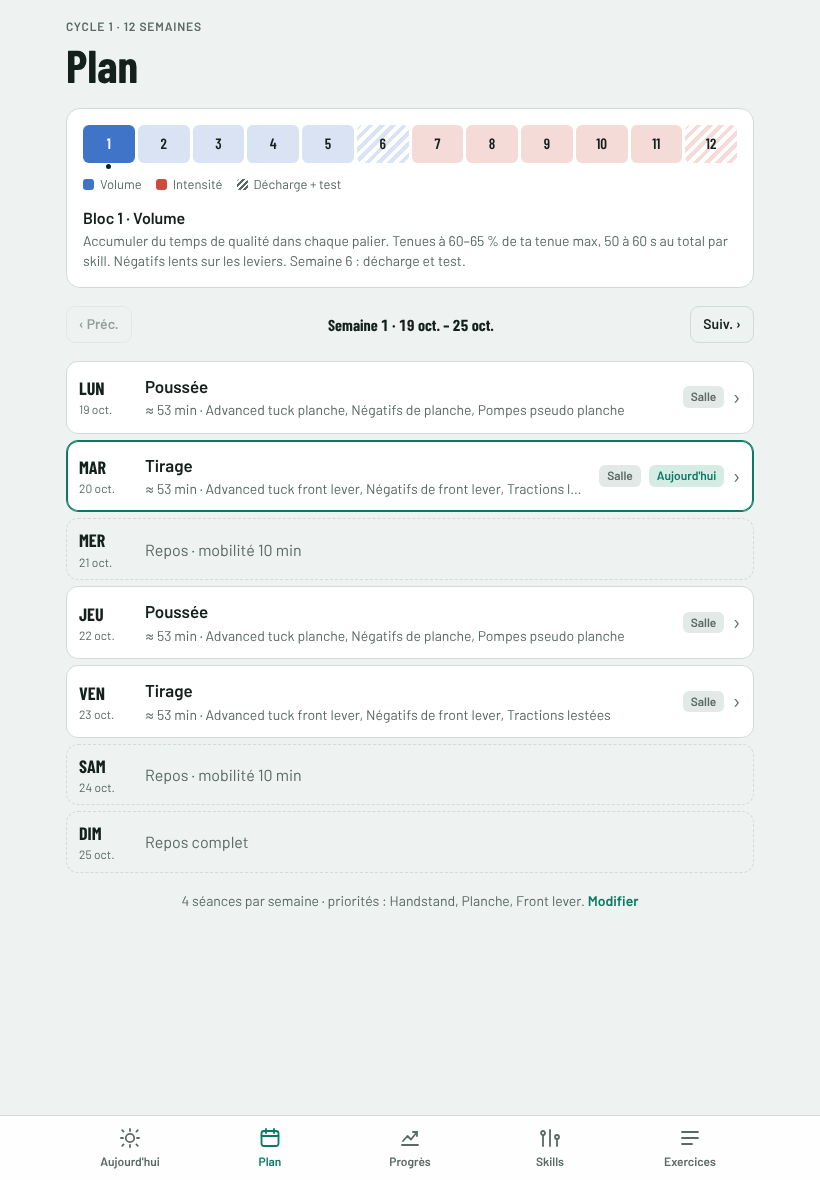
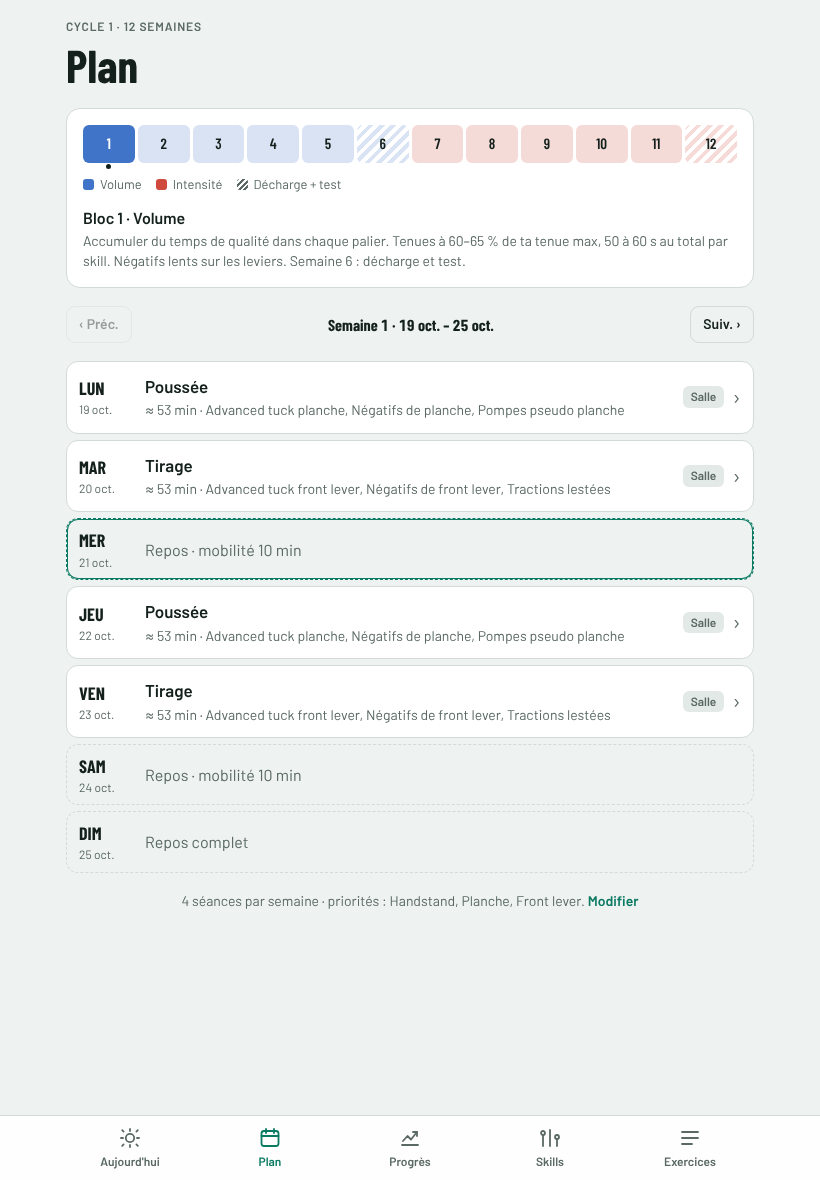
Calisthénie: 3-month intensive blocks for each major skill
Claude-Session: https://claude.ai/code/session_01BzPbhTdoN3B81eFCNwf2Zg

Changed region(s): [[0.1829, 0.3661, 0.9146, 0.4576], [0.0915, 0.4271, 0.122, 0.4576]]

diff --git a/calisthenie/index.html b/calisthenie/index.html
@@ -617,6 +617,30 @@ button:disabled { opacity: .4; cursor: default; }
 .egg-svg .s-tw { animation: c-twinkle 1.5s ease-in-out infinite; }
 @media (prefers-reduced-motion: reduce) { .k-sh *, .k-sh { animation: none !important; } }
 
+/* Blocs intensifs */
+.spec-card, .spec-entry { width: 100%; text-align: left; color: var(--ink); font: inherit; cursor: pointer; border-color: var(--accent); }
+.spec-entry { gap: 4px; }
+.spec-entry b { font-size: 18px; }
+.spec-goal { font-size: 18px; line-height: 1.3; }
+.spec-bar i { height: 8px; }
+.spec-bar i.test { box-shadow: inset 0 -2px 0 var(--warn); }
+.spec-goals { list-style: none; padding: 0; margin: 0; display: grid; gap: 10px; }
+.spec-goals li { display: flex; gap: 10px; align-items: flex-start; }
+.spec-goals li > div { display: grid; gap: 2px; }
+.sg-mark { flex: none; width: 26px; height: 26px; border-radius: 50%; display: grid; place-items: center; font-weight: 700; font-size: 14px; background: var(--sunk); color: var(--muted); }
+.spec-goals li.now .sg-mark { background: var(--accent-soft); color: var(--accent); box-shadow: 0 0 0 2px var(--accent); }
+.spec-goals li.ok .sg-mark { background: var(--accent); color: #fff; }
+.spec-goals li.ok b { text-decoration: none; }
+.spec-grid { display: grid; grid-template-columns: repeat(auto-fill, minmax(300px, 1fr)); gap: 10px; }
+.spec-pick { align-content: start; }
+.spec-pick.on { border-color: var(--accent); }
+.spec-pick p { margin: 0; }
+.spec-pick .btn, .spec-pick .tag { justify-self: start; }
+.sp-head { display: flex; gap: 12px; align-items: center; }
+.sp-head > div { display: grid; gap: 2px; min-width: 0; }
+.sp-head b { font-size: 18px; }
+@media (max-width: 640px) { .spec-grid { grid-template-columns: 1fr; } }
+
 /* Craie, avatar, boutique */
 .chalk { display: inline-flex; align-items: center; gap: 4px; font-weight: 700; }
 .chalk-ic svg { width: 16px; height: 16px; display: block; fill: color-mix(in srgb, var(--surface) 70%, var(--accent)); stroke: var(--accent); stroke-width: 1.6; stroke-linejoin: round; }
@@ -4705,6 +4729,257 @@ eggSVG = function (rar) {
     '<g class="egg-shell">' + cel(u, shell, base, sh, { dx: -3, dy: -7, x: pat, hl: [34, 32, 7, 12, 20], hlo: .6, sw: 3.4 }) + '</g>' +
     '<path class="egg-crack" d="M16 66 L28 58 L34 68 L46 56 L54 70 L64 58 L72 68 L84 62" fill="none" stroke="' + OL + '" stroke-width="3" stroke-linejoin="round"/>' +
     '</svg>';
+};
+render();
+
+
+/* =====================================================================
+   V10 : blocs intensifs de 3 mois, un grand skill en priorité absolue
+   3 mois = 3 × (3 semaines de charge + 1 semaine de test et récupération).
+   Séances lourdes et techniques alternées : jamais deux séances lourdes d'affilée.
+   ===================================================================== */
+settings.specHist = settings.specHist || [];
+
+// Exercices d'appoint de chaque bloc : [exercice, dose, unité, consigne]
+const SPEC = {
+  planche: { name: "Planche",
+    real: "La full planche demande en général 1 à 2 ans depuis l'advanced tuck : le bloc vise les 2 paliers suivants, sans abîmer coudes et poignets.",
+    tips: ["Bras verrouillés sur toutes les tenues : un coude plié cache ta vraie progression.", "Omoplates écartées et bassin rentré, du lean jusqu'à la full.", "Si un biceps ou un coude tire, passe la séance en technique."],
+    heavy: lv => [lv <= 4 ? ["plNeg", "3 × 3", "négatifs 4 s · repos 3 min", "Pars du palier au-dessus du tien et descends lentement"] : null,
+      [lv <= 1 ? "pppu" : lv <= 4 ? "atPU" : "plPU", "EMOM 6 min", "1+ rép. / min", "Méthode Heria : ta pompe planche la plus dure, 1 répétition ou plus au début de chaque minute"],
+      ["dipsW", "4 × 6", "lestés · repos 2 min", "Force de poussée lourde : transfert direct sur la planche"]],
+    tech: () => [["lean", "3 × 20 s", "repos 60 s", "Penche un peu plus loin chaque semaine, bras verrouillés"], ["pppu", "3 × 8", "repos 90 s", "Garde le lean jusqu'en bas"]] },
+  hs: { name: "Handstand", every: true,
+    real: "L'équilibre progresse surtout avec la fréquence : un peu à chaque séance vaut mieux qu'une grosse séance par semaine.",
+    tips: ["Côtes rentrées, épaules complètement ouvertes : la ligne avant la durée.", "Corrige avec les doigts, pas en marchant avec les mains.", "Filme-toi de profil une fois par semaine."],
+    heavy: lv => [["kickup", "8 min", "pratique", "Entrées en équilibre : arrête-toi propre en haut, sans toucher le mur"],
+      lv >= 3 ? ["shapes", "3 × 20 s", "repos 60 s", "Change la forme des jambes sans perdre l'équilibre"] : ["heelPull", "3 × 10 s", "repos 60 s", "Décolle les talons du mur, trouve le point d'équilibre"],
+      ["shoulderTap", "3 × 10", "repos 60 s", "Transfert de poids d'une main à l'autre"]],
+    tech: () => [["kickup", "6 min", "pratique", "Entrées détendues, qualité avant tout"], ["wallChest", "2 × 45 s", "repos 60 s", "Ligne parfaite : côtes rentrées, épaules ouvertes"]] },
+  hspu: { name: "HSPU",
+    real: "Les HSPU progressent vite avec de la force de poussée : 2 à 3 paliers en 3 mois sont réalistes. Les HSPU libres demandent en plus un handstand solide.",
+    tips: ["Coudes à 45°, la tête passe devant les mains en bas.", "Amplitude complète avant d'ajouter du déficit.", "Garde un peu de handstand libre chaque semaine."],
+    heavy: lv => [lv <= 4 ? ["hspuNeg", "3 × 4", "négatifs 5 s · repos 2 min", "Descente lente jusqu'à la tête, coudes à 45°"] : null,
+      ["dipsW", "4 × 6", "lestés · repos 2 min", "Force de poussée lourde"], ["pikeDef", "3 × 8", "repos 90 s", "Amplitude complète, hanches hautes"]],
+    tech: () => [["kickup", "6 min", "pratique", "Équilibre au mur ou en libre"], ["pikeBox", "3 × 8", "repos 90 s", "Rapide en montée, contrôlé en descente"]] },
+  fl: { name: "Front lever",
+    real: "Le front lever avance d'un palier tous les 1 à 3 mois chez un pratiquant fort en traction : 2 paliers en 3 mois est un bon objectif.",
+    tips: ["Bras tendus, omoplates basses et serrées.", "Hanches à hauteur des épaules, même en tuck.", "Le lest lourd en traction aide beaucoup : garde-le."],
+    heavy: () => [["flNeg", "3 × 3", "négatifs 4 s · repos 3 min", "Descends lentement depuis la barre jusqu'à l'horizontale, corps gainé"],
+      ["pullUpW", "4 × 5", "lestés · repos 2 min", "Tirage lourd : la base du front lever"], ["legRaise", "3 × 8", "repos 60 s", "Jambes tendues, sans balancer"]],
+    tech: () => [["scapPull", "3 × 8", "repos 60 s", "Omoplates basses et serrées"], ["row", "3 × 10", "tempo 3-1-1 · repos 90 s", "Corps gainé, bras serrés"]] },
+  bl: { name: "Back lever",
+    real: "Le back lever est souvent le levier le plus rapide, mais le plus exigeant pour les biceps : la progression reste volontairement prudente.",
+    tips: ["Échauffe longuement les biceps et les épaules avant chaque tenue.", "Entre et sors du levier lentement, jamais en lâchant.", "Arrête dès qu'une douleur apparaît à l'avant du coude."],
+    heavy: () => [["pullUp", "4 × 6", "tempo 3-1-1 · repos 2 min", "Tractions lentes et contrôlées"], ["dips", "3 × 10", "repos 90 s", "Épaules basses, poitrine ouverte"]],
+    tech: () => [["row", "3 × 12", "repos 90 s", "Corps gainé"], ["plankPike", "3 × 10", "repos 60 s", "Gainage pour garder le corps aligné"]] },
+  mu: { name: "Muscle-up",
+    real: "Avec de bonnes tractions, le muscle-up strict vient souvent en 1 à 3 mois : la technique de transition compte autant que la force.",
+    tips: ["Tire vers les hanches, pas vers le menton.", "Prise un peu plus serrée, poignets par-dessus la barre.", "Transition des deux bras en même temps."],
+    heavy: () => [["explosive", "5 × 3", "repos 2 min", "Tire le plus haut possible, jusqu'aux hanches"], ["muNeg", "3 × 3", "négatifs 5 s · repos 2 min", "Descends lentement à travers la transition"], ["dips", "3 × 10", "repos 90 s", "Le haut du muscle-up"]],
+    tech: () => [["c2b", "3 × 4", "repos 2 min", "Poitrine à la barre, sans élan"], ["pullUp", "2 × 6", "tempo 3-1-1 · repos 90 s", "Contrôle total"]] },
+  pull: { name: "Traction à un bras",
+    real: "La traction à un bras demande en général 6 mois à 2 ans : ce bloc construit la base (lest lourd, négatifs à un bras) et rapproche des premiers paliers.",
+    tips: ["Le lest lourd est le meilleur indicateur : vise des tractions à +50 % de ton poids.", "Négatifs à un bras : le plus lent possible, l'autre main ne touche pas.", "Coudes sensibles : on réduit, on n'insiste pas."],
+    heavy: lv => [["pullUpW", "5 × 3", "lestés · repos 3 min", "Lest lourd : vise 50 % de ton poids et plus"], lv >= 5 ? ["oap", "3 × 2", "négatifs 5 s · par côté · repos 3 min", "Descends le plus lentement possible sur un bras"] : ["explosive", "4 × 3", "repos 2 min", "Puissance de tirage"]],
+    tech: () => [["pullUp", "3 × 8", "tempo 3-1-1 · repos 90 s", "Contrôle total"], ["scapPull", "3 × 8", "repos 60 s", "Omoplates actives"]] },
+  core: { name: "V-sit",
+    real: "Le V-sit dépend autant de la souplesse en compression que de la force : le bloc travaille les deux à chaque séance.",
+    tips: ["Épaules basses, bras verrouillés, pousse le sol loin de toi.", "La compression vient des abdos et des fléchisseurs de hanche : tire les jambes vers toi.", "Étire l'arrière des jambes tous les jours."],
+    heavy: () => [["legRaise", "4 × 8", "repos 60 s", "Jambes tendues, montée lente"], ["plankPike", "3 × 10", "repos 60 s", "Compression active"]],
+    tech: () => [["pikeFold", "2 min", "", "Étirement actif en pike : la compression vient de la souplesse"], ["lTuck", "3 × 15 s", "repos 60 s", "Genoux le plus haut possible"]] }
+};
+const SPEC_IDS = Object.keys(SPEC);
+
+/* ---------- Calendrier du bloc ---------- */
+const specWeekOf = date => { const sp = settings.spec; if (!sp) return 0; return Math.floor((mondayOf(date) - new Date(sp.start + "T12:00:00")) / 6048e5) + 1; };
+const specWeekNow = () => specWeekOf(new Date());
+function specHeavy(id, d) {
+  if (SPEC[id].every) return true;
+  const days = Object.keys(cuSlots()).map(Number).sort((a, b) => a - b), H = {};
+  let last = -9; days.forEach(x => { if (x - last > 1) { H[x] = true; last = x; } });
+  return !!H[d];
+}
+function specAt(abs, d) {
+  const sp = settings.spec; if (!sp || !SPEC[sp.id]) return null;
+  const sw = specWeekOf(dateOf(abs, d));
+  if (sw < 1 || sw > 12) return null;
+  return { id: sp.id, sw, m: Math.ceil(sw / 4), wm: (sw - 1) % 4, heavy: specHeavy(sp.id, d) };
+}
+function specGoals(sp) {
+  const t = TREE[sp.id], N = t.steps.length, lv = levels[sp.id];
+  return [0, 1, 2].map(k => {
+    const i = sp.lv0 + k;
+    if (i >= N) return { k, label: "Entretenir et allonger : " + t.steps[N - 1].t, std: "", done: lv >= N };
+    const st = t.steps[i], touch = k === 2;
+    return { k, i, label: (touch ? (st.k === "h" ? "Premières tenues : " : "Premières répétitions : ") : "Valider : ") + st.t, std: touch ? "" : stdText(st),
+      done: touch ? lv > i || (lv >= i && bestOf(sp.id + ":" + i) > 0) : lv > i };
+  });
+}
+
+/* ---------- Contenu des séances ---------- */
+function specItems(sp) {
+  const id = sp.id, t = TREE[id], N = t.steps.length, lv = levels[id], si = Math.min(lv, N - 1), st = t.steps[si], nx = lv + 1 < N ? t.steps[lv + 1] : null;
+  const fin = lv >= N, test = sp.wm === 3, heavy = sp.heavy, hold = st.k === "h", tag = "Bloc intensif · " + t.name;
+  const side = st.side ? " par côté" : "", kg = st.wt ? " +" + Math.round(settings.bw * st.wt / 100) + " kg" : "", lk = id + ":" + si;
+  const main = { ex: st.ex, tree: id, lk, name: EX[st.ex].name + (st.assisted ? " assisté" : ""), title: t.name + " · " + st.t, eyebrow: tag + " · palier " + (si + 1) + "/" + N, keep: true, spec: true };
+  if (test && heavy && !fin) Object.assign(main, { dose: st.n + " × " + st.v + (hold ? " s" : ""), unit: "test" + side + kg, validate: id, note: "Test du mois " + sp.m + " : " + stdText(st) + ". Réussi : valide le palier." });
+  else if (test) { const ref = hold ? maxHold(lk, st).v : st.v; Object.assign(main, { dose: "2 × " + Math.max(hold ? 3 : 1, Math.round(ref * .5)) + (hold ? " s" : ""), unit: "décharge" + side + kg, note: "Semaine de test : on récupère, les tendons aussi." }); }
+  else if (hold) {
+    const mx = maxHold(lk, st), pct = heavy ? [.7, .8, .85][sp.wm] : .55, v = Math.max(3, Math.round(mx.v * pct));
+    Object.assign(main, { dose: (heavy ? 5 : 4) + " × " + v + " s", unit: "repos 2–3 min" + side, maxv: mx.v, last: heavy,
+      note: (heavy ? "Séance lourde" : "Séance technique") + " · tenue max " + (mx.est ? "estimée à " : "") + mx.v + " s, travail à " + Math.round(pct * 100) + " %. " + (heavy ? "Dernière série : tiens au max sans casser la forme." : "Forme parfaite, loin de l'échec.") });
+  } else {
+    const b0 = Math.max(1, Math.round(st.v * (heavy ? [.6, .7, .8][sp.wm] : .5))), r = Math.max(1, Math.min(st.v, b0 + (heavy ? autoAdj[lk] || 0 : 0)));
+    Object.assign(main, { dose: (heavy ? 5 : 3) + " × " + r, unit: "repos 2–3 min" + side + kg,
+      note: (heavy ? "Séance lourde : +1 répétition dès que toutes les séries passent" : "Séance technique : vitesse et forme parfaite") + ". Standard : " + stdText(st) + "." });
+    if (heavy && r !== b0) main.auto = r - b0;
+  }
+  const out = [main];
+  if (heavy && !test && nx && nx.ex !== st.ex) out.push({ ex: nx.ex, tree: id, lk: id + ":" + (lv + 1), name: EX[nx.ex].name, title: t.name + " · " + nx.t, eyebrow: tag + " · palier suivant",
+    dose: nx.k === "h" ? "4 × 4 s" : "3 × 1", unit: "tentatives · repos 2 min" + (nx.side ? " par côté" : ""), note: "Touche le palier suivant, frais : c'est l'objectif des semaines à venir.", keep: true, spec: true });
+  SPEC[id][heavy ? "heavy" : "tech"](lv).filter(Boolean).forEach(([ex, dose, unit, note]) => {
+    if (!EX[ex] || out.some(o => o.ex === ex) || (test && /^EMOM/.test(dose))) return;
+    if (!settings.eq.bar && EX[ex].props.some(p => p.pullbar)) return;
+    out.push(Object.assign(item(ex, test ? dose.replace(/^(\d+) ×/, (m, n) => Math.min(2, +n) + " ×") : dose, unit, note), { eyebrow: tag, keep: true, spec: true }));
+  });
+  return out;
+}
+
+// La séance normale passe en entretien, le bloc passe en premier
+let SPEC_CTX = null;
+const _cuBase10 = cuBaseSession;
+cuBaseSession = function (w, type) {
+  const b = _cuBase10(w, type), sp = SPEC_CTX;
+  if (!sp) return b;
+  b.warm = b.warm.filter(x => x.tree !== sp.id);
+  const rest = b.main.filter(x => x.tree !== sp.id && !(x.tree && (x.eyebrow || "").includes("palier suivant")));
+  rest.forEach(x => { if (x.tree && TREE[x.tree].skill && !x.validate) { x.dose = x.dose.replace(/^(\d+) ×/, (m, n) => Math.max(2, Math.ceil(n / 2)) + " ×"); if (!/^Entretien/.test(x.eyebrow || "")) x.eyebrow = "Entretien · " + (x.eyebrow || TREE[x.tree].name); } });
+  b.main = specItems(sp).concat(rest);
+  return b;
+};
+// Pendant un bloc, pas de négatifs ni d'EMOM supplémentaires pour les skills en entretien
+const _extraItems10 = extraItems;
+extraItems = function (main, s) {
+  if (!SPEC_CTX) return _extraItems10(main, s);
+  const keepF = settings.focus; settings.focus = [];
+  try { return _extraItems10(main, s); } finally { settings.focus = keepF; }
+};
+const _session10 = session;
+session = function (abs, d) {
+  const sp = specAt(abs, d);
+  if (!sp) return _session10(abs, d);
+  const keepF = settings.focus;
+  settings.focus = keepF.filter(x => x !== sp.id); SPEC_CTX = sp;
+  try {
+    const s = _session10(abs, d);
+    if (s) Object.assign(s, { spec: sp, meta: Object.assign({}, s.meta, { sub: s.main.some(i => i.spec) ? "Bloc intensif " + SPEC[sp.id].name + (sp.wm === 3 ? " (test)" : sp.heavy ? " (lourd)" : " (technique)") + ", puis entretien" : "Bloc " + SPEC[sp.id].name + " en pause ici (pas de barre) : séance d'entretien" }) });
+    return s;
+  } finally { settings.focus = keepF; SPEC_CTX = null; }
+};
+
+/* ---------- Lancer, arrêter, archiver ---------- */
+function startSpec(id) {
+  if (settings.spec) archiveSpec(true);
+  settings.spec = { id, start: iso(mondayOf(new Date())), lv0: Math.min(levels[id], TREE[id].steps.length) };
+  saveAll(); toast("Bloc intensif lancé : " + SPEC[id].name + " pour 12 semaines"); render(); window.scrollTo(0, 0);
+}
+function archiveSpec(stopped) {
+  const sp = settings.spec; if (!sp) return;
+  settings.specHist.unshift({ id: sp.id, start: sp.start, lv0: sp.lv0, lv1: levels[sp.id], end: iso(new Date()), stopped: !!stopped && specWeekNow() <= 12, goals: specGoals(sp).filter(g => g.done).length });
+  settings.specHist = settings.specHist.slice(0, 20);
+  settings.spec = null; saveAll();
+}
+
+/* ---------- Affichage ---------- */
+function specBar(sw) { return h("div", { class: "segs spec-bar", style: "--n:12" }, Array.from({ length: 12 }, (_, i) => h("i", { class: (i + 1 < sw ? "on" : i + 1 === sw ? "cur" : "") + ((i + 1) % 4 === 0 ? " test" : "") }))); }
+function goalList(sp, sw) {
+  return h("ol", { class: "spec-goals" }, specGoals(sp).map(g => h("li", { class: (g.done ? "ok" : "") + (sw && Math.ceil(sw / 4) === g.k + 1 && !g.done ? " now" : "") },
+    h("span", { class: "sg-mark", "aria-hidden": "true" }, g.done ? "✓" : String(g.k + 1)),
+    h("div", null, h("span", { class: "eyebrow" }, "Mois " + (g.k + 1)), h("b", null, g.label), g.std ? h("span", { class: "muted small" }, "Standard : " + g.std) : null))));
+}
+function specCard() {
+  const sp = settings.spec; if (!sp) return null;
+  const sw = specWeekNow(), t = TREE[sp.id], goals = specGoals(sp);
+  if (sw > 12) return h("section", { class: "card spec-card stack" },
+    h("span", { class: "eyebrow" }, "Bloc intensif terminé · " + SPEC[sp.id].name),
+    h("h3", null, goals.filter(g => g.done).length + " objectif" + (goals.filter(g => g.done).length > 1 ? "s" : "") + " sur 3 atteint" + (goals.filter(g => g.done).length > 1 ? "s" : "")),
+    goalList(sp),
+    h("p", { class: "muted small" }, "Ton programme normal a repris. Enchaîne avec un autre bloc, ou garde quelques semaines d'entraînement équilibré avant le suivant."),
+    h("div", { class: "hero-actions" }, h("button", { class: "btn", onclick: () => { archiveSpec(false); openSub({ type: "spec" }); } }, "Choisir un nouveau bloc"), h("button", { class: "btn ghost", onclick: () => { archiveSpec(false); render(); } }, "Archiver")));
+  const m = Math.max(1, Math.ceil(sw / 4)), g = goals[m - 1], test = sw >= 1 && (sw - 1) % 4 === 3;
+  return h("button", { class: "card spec-card", onclick: () => openSub({ type: "spec" }) },
+    h("div", { class: "row-between" }, h("span", { class: "eyebrow" }, "Bloc intensif · " + t.name + " · semaine " + Math.max(1, sw) + "/12"), test ? h("span", { class: "tag warn" }, "Test du mois") : null),
+    h("b", { class: "spec-goal" }, (g.done ? "✓ " : "") + g.label),
+    specBar(sw),
+    h("span", { class: "muted small" }, test ? "Semaine de test : tente le standard lors de ta séance lourde, puis récupère." : "Mois " + m + " sur 3 · " + goals.filter(x => x.done).length + "/3 objectifs atteints · Voir le bloc ›"));
+}
+function renderSpec() {
+  const sp = settings.spec, sw = specWeekNow();
+  const cards = SPEC_IDS.map(id => {
+    const t = TREE[id], lv = levels[id], N = t.steps.length, st = t.steps[Math.min(lv, N - 1)], on = sp && sp.id === id;
+    const g = specGoals({ id, lv0: Math.min(lv, N) });
+    return h("section", { class: "card spec-pick" + (on ? " on" : "") },
+      h("div", { class: "sp-head" }, thumb(st.ex, "sm"),
+        h("div", null, h("span", { class: "eyebrow" }, t.name + " · palier " + Math.min(lv + 1, N) + "/" + N), h("b", null, SPEC[id].name), h("span", { class: "muted small" }, lv >= N ? "Arbre terminé" : "Actuel : " + st.t))),
+      h("p", { class: "small" }, h("b", null, "En 3 mois : "), g.map(x => x.label.replace(/^Valider : /, "")).join(" → ")),
+      h("p", { class: "muted small" }, SPEC[id].real),
+      on ? h("span", { class: "tag accent" }, "Bloc en cours") : sp ? confirmBtn("Remplacer le bloc actuel", "Confirmer : arrêter " + SPEC[sp.id].name + " ?", () => startSpec(id), "btn ghost small") : h("button", { class: "btn small", onclick: () => startSpec(id) }, "Lancer ce bloc"));
+  });
+  const hist = settings.specHist;
+  return h("div", { class: "screen" },
+    backBar("Retour", closeSub),
+    h("header", { class: "top" }, h("span", { class: "eyebrow" }, "12 semaines · 1 skill en priorité"), h("h1", null, "Blocs intensifs"),
+      h("p", { class: "muted" }, "Un skill passe en priorité absolue pendant 3 mois. Tes autres skills restent en entretien, avec moins de séries.")),
+    sp && sw <= 12 ? h("section", { class: "card stack" },
+      h("span", { class: "eyebrow" }, "En cours · semaine " + Math.max(1, sw) + "/12 · depuis le " + fmtShort(new Date(sp.start + "T12:00:00"))),
+      h("h2", null, SPEC[sp.id].name), specBar(sw), goalList(sp, sw),
+      h("h3", null, "Conseils"), h("ul", { class: "how" }, SPEC[sp.id].tips.map(x => h("li", null, x))),
+      confirmBtn("Arrêter le bloc", "Confirmer l'arrêt ?", () => { archiveSpec(true); toast("Bloc arrêté : retour au programme normal"); render(); }, "btn ghost small")) : null,
+    h("section", { class: "card stack" }, h("h3", null, "Comment ça marche"),
+      h("ol", { class: "how" },
+        h("li", null, h("b", null, "Chaque mois : 3 semaines de charge, 1 semaine de test. "), "Les tenues montent de 70 à 85 % de ta tenue max. En semaine 4, tu tentes le standard du palier lors de ta séance lourde, puis tu récupères."),
+        h("li", null, h("b", null, "Séances lourdes et techniques. "), "Le skill est travaillé à chaque séance, mais jamais lourd deux jours de suite : les tendons récupèrent moins vite que les muscles."),
+        h("li", null, h("b", null, "Objectifs par mois. "), "Valider ton palier actuel, puis le suivant, puis toucher celui d'après. Valide-les comme d'habitude, le bloc s'adapte."),
+        h("li", null, h("b", null, "Ensuite. "), "Après 12 semaines, ton programme normal reprend. Tu peux enchaîner sur un autre bloc."))),
+    h("section", { class: "stack" }, h("h3", null, sp && sw <= 12 ? "Changer de bloc" : "Choisir un bloc"), h("div", { class: "spec-grid" }, cards)),
+    hist.length ? h("section", { class: "stack" }, h("h3", null, "Blocs précédents"),
+      h("ul", { class: "journal" }, hist.map(x => h("li", null, h("span", { class: "num muted" }, fmtShort(new Date(x.start + "T12:00:00"))), " " + SPEC[x.id].name + " · " + x.goals + "/3 objectifs" + (x.stopped ? " · arrêté" : ""))))) : null);
+}
+
+/* ---------- Points d'entrée : Aujourd'hui, Skills, fiche d'un arbre ---------- */
+const _renderToday10 = renderToday;
+renderToday = function () {
+  const scr = _renderToday10(), c = specCard();
+  if (c) { const pc = scr.querySelector(".player-card"); (pc || scr.querySelector(".top")).after(c); }
+  return scr;
+};
+const _renderSkills10 = renderSkills;
+renderSkills = function () {
+  const scr = _renderSkills10(), sp = settings.spec;
+  scr.querySelector(".top").after(h("button", { class: "card spec-entry", onclick: () => openSub({ type: "spec" }) },
+    h("span", { class: "eyebrow" }, "Nouveau · 3 mois"), h("b", null, sp ? "Bloc intensif en cours : " + SPEC[sp.id].name : "Blocs intensifs"),
+    h("span", { class: "muted small" }, sp ? "Semaine " + Math.min(12, Math.max(1, specWeekNow())) + "/12 · voir les objectifs ›" : "Planche, handstand, muscle-up, front lever… Un skill en priorité pendant 12 semaines ›")));
+  return scr;
+};
+const _renderTree10 = renderTree;
+renderTree = function (id) {
+  const scr = _renderTree10(id);
+  if (SPEC[id]) {
+    const on = settings.spec && settings.spec.id === id;
+    scr.appendChild(h("section", { class: "card stack" }, h("h3", null, "Bloc intensif 3 mois"),
+      h("p", { class: "muted small" }, SPEC[id].real),
+      h("button", { class: on ? "btn ghost" : "btn", onclick: () => openSub({ type: "spec" }) }, on ? "Voir le bloc en cours" : "Découvrir le bloc " + SPEC[id].name)));
+  }
+  return scr;
+};
+const _render10 = render;
+render = function () {
+  if (S.onb == null && S.sub && S.sub.type === "spec") {
+    applyLook(); figures = figures.filter(f => f.svg.isConnected && f.svg.closest(".player"));
+    $("#nav").hidden = false; renderNav(); $("#view").replaceChildren(renderSpec()); return;
+  }
+  _render10();
 };
 render();
 

diff --git a/calisthenie/sw.js b/calisthenie/sw.js
@@ -1,6 +1,6 @@
 // Mode hors connexion : l'appli est servie depuis le cache, puis mise à jour en arrière-plan.
 // Change VERSION à chaque nouvelle publication pour forcer le rafraîchissement du cache.
-const VERSION = "cap-cali-v14";
+const VERSION = "cap-cali-v15";
 const FILES = ["./", "./index.html", "./manifest.webmanifest", "./icons/apple-touch-icon.png", "./icons/icon-192.png", "./icons/icon-512.png", "./icons/icon-maskable-512.png"];
 
 self.addEventListener("install", e => {
